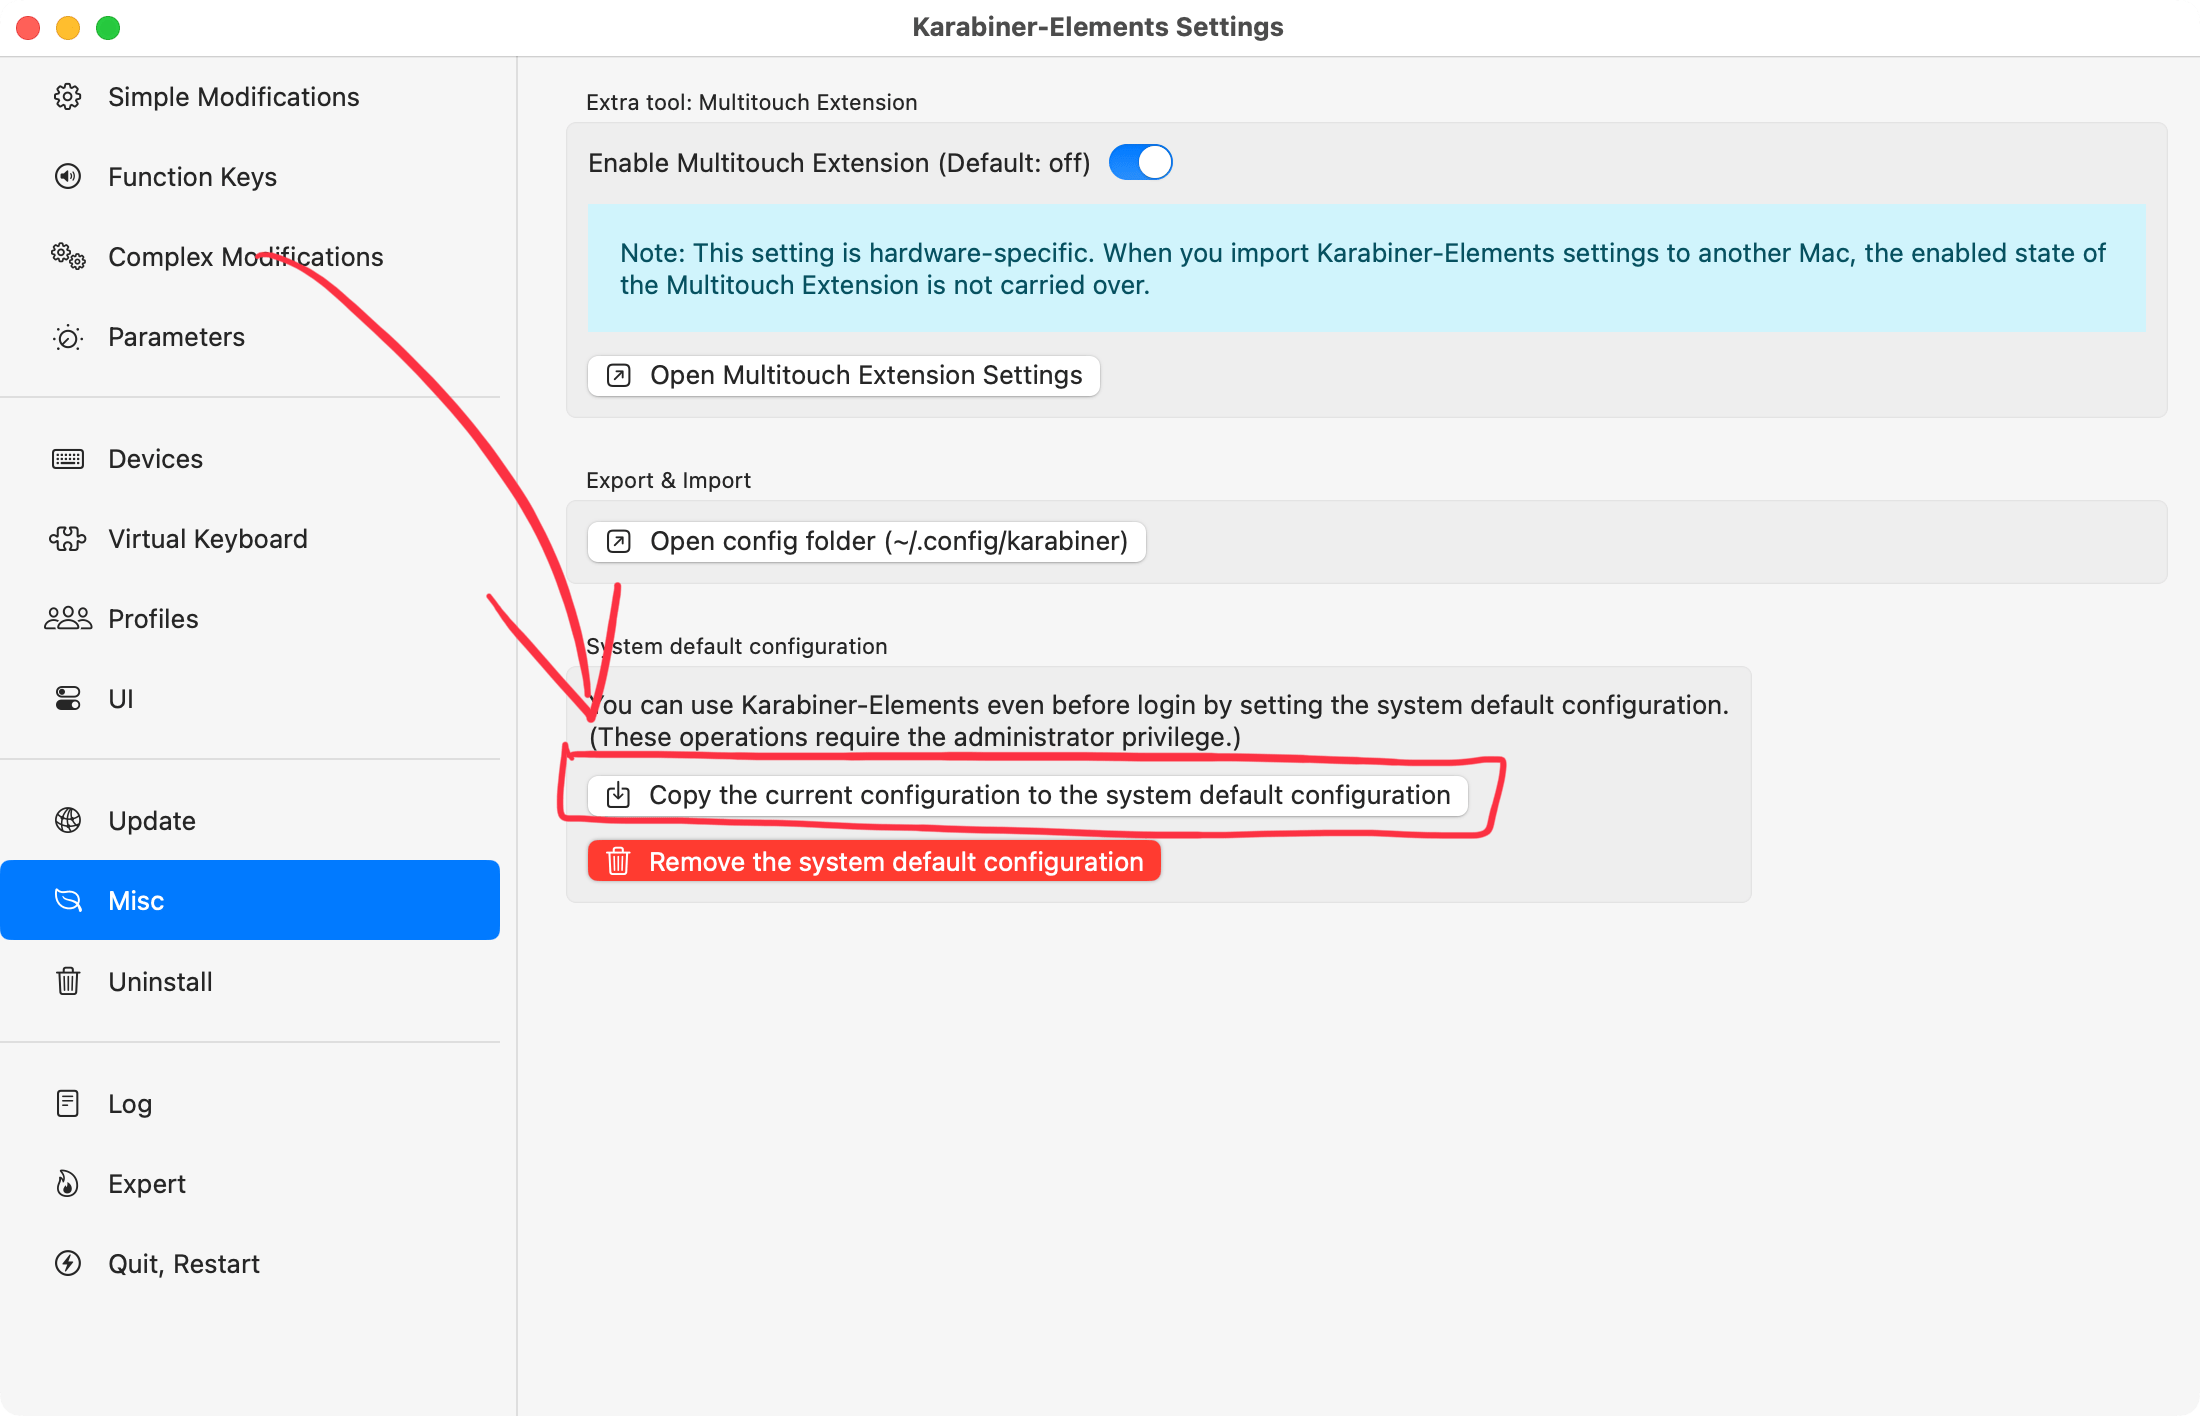
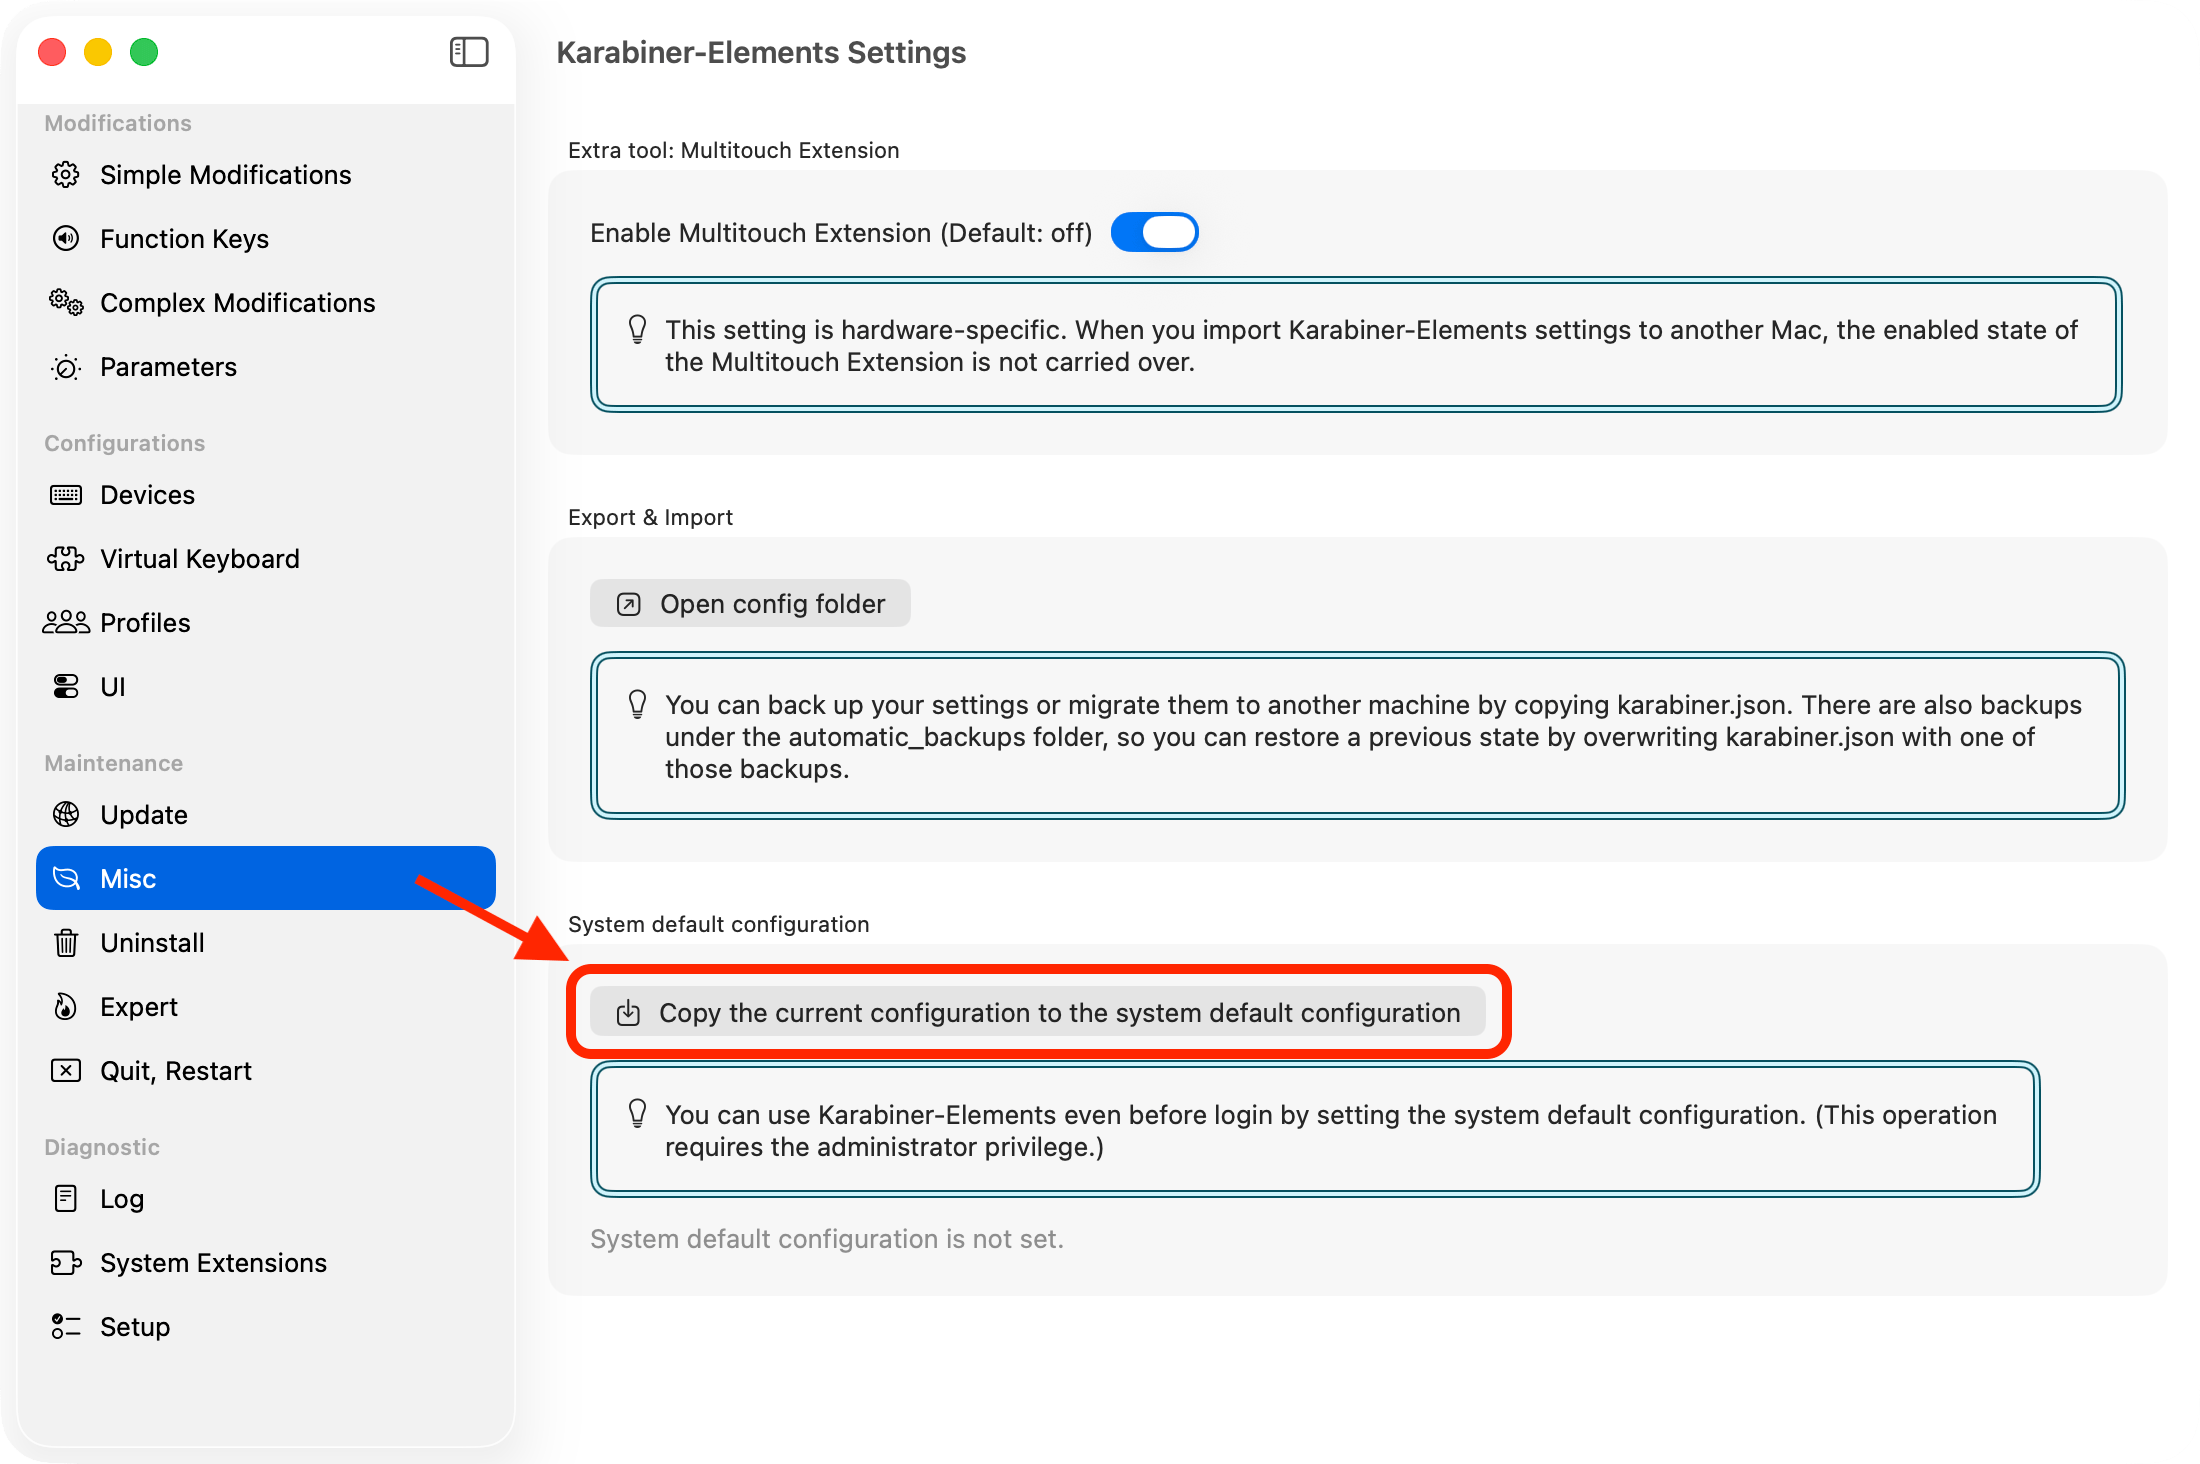
Update images

diff --git a/sites/karabiner-elements/content/en/docs/help/how-to/use-before-logging-in/index.md b/sites/karabiner-elements/content/en/docs/help/how-to/use-before-logging-in/index.md
@@ -3,13 +3,22 @@ title: 'How to use Karabiner-Elements on the password entry screen before loggin
 weight: 500
 ---
 
-If you want to use Karabiner-Elements settings on the password entry screen before logging in, press `Copy the current configuration to the system default configuration` button in the Misc tab of the settings screen.
-The configuration copied here will be applied even before logging in.
+To use Karabiner-Elements settings on the password entry screen before login, click `Copy the current configuration to the system default configuration` in the Misc tab of the Settings screen.
+The copied configuration will be applied before any user logs in.
 
-Additionally, this will become the default configuration for users who haven't set up Karabiner-Elements, e.g., guest users.
+This configuration also becomes the default for users who have not set up Karabiner-Elements, such as guest users.
 
 {{% alert title="Caution" color="danger" %}}
-If your Mac is used by multiple people, enabling this feature may cause confusion due to unintended keyboard behavior. Be sure to inform others properly before turning it on.
+
+If multiple people use your Mac, enabling this feature may cause confusion due to unexpected keyboard behavior.
+Be sure to inform other users before turning it on.
+
 {{% /alert %}}
 
 {{< local-image src="images/[email redacted]" >}}
+
+## How to remove the copied system default configuration
+
+After copying the configuration, you can remove the system default configuration from the same screen.
+
+{{< local-image src="images/[email redacted]" >}}